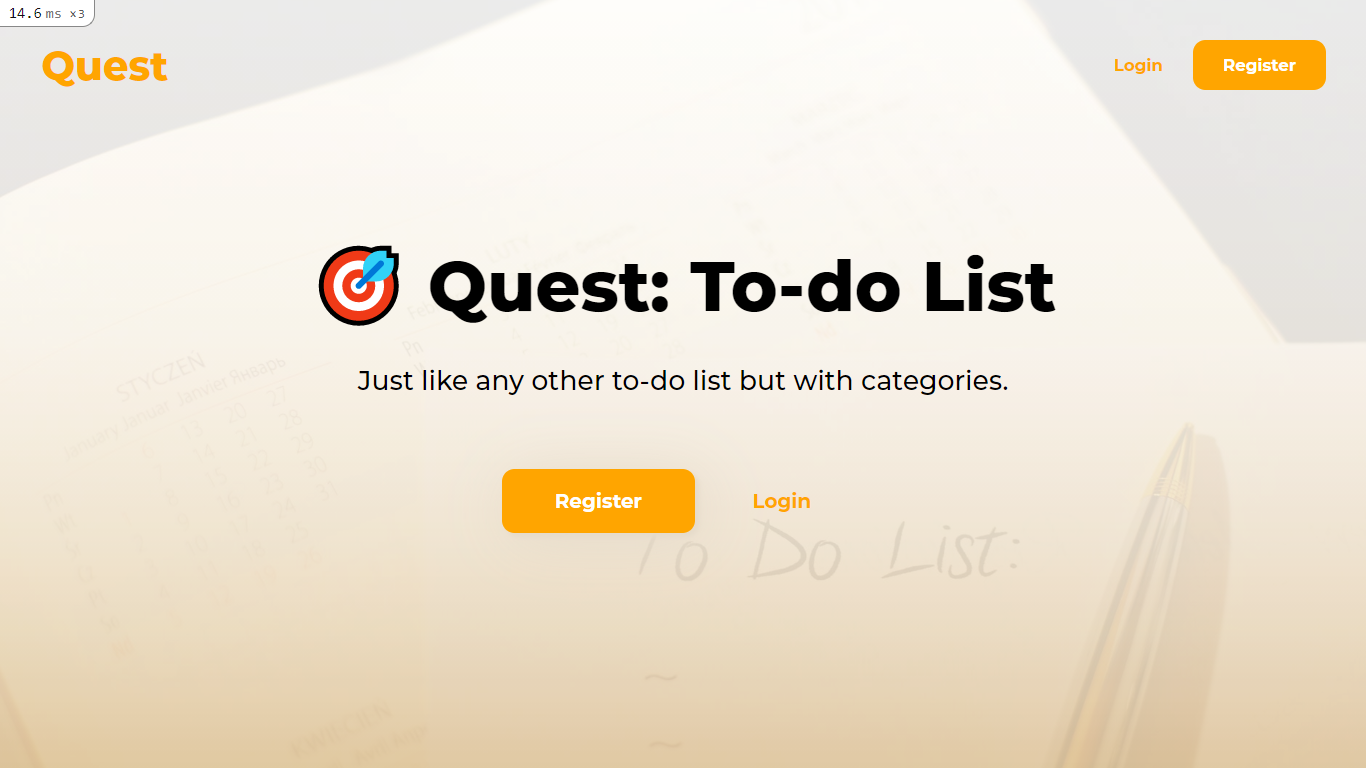
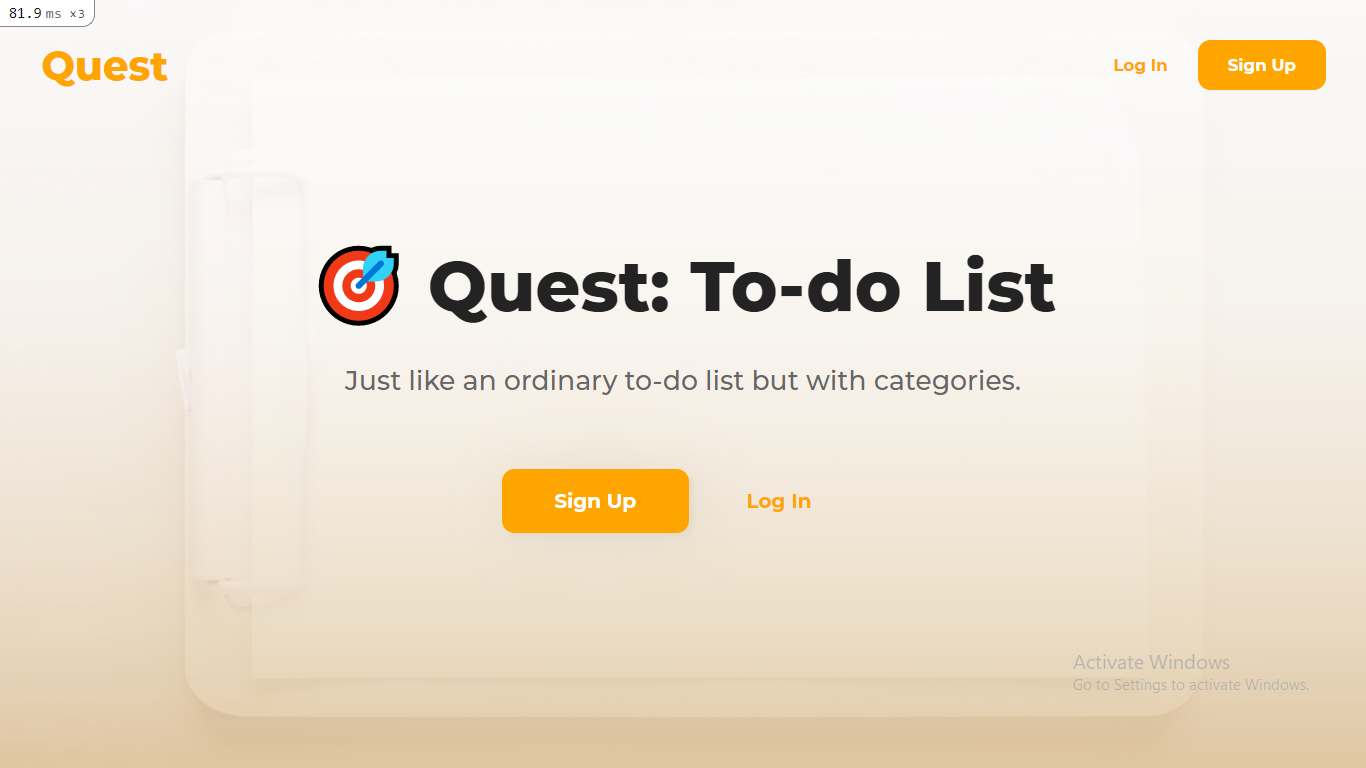
finalized initial design for landing page, sign up page, login page, and forgot password page

diff --git a/app/assets/stylesheets/signup.scss b/app/assets/stylesheets/signup.scss
@@ -1,3 +1,4 @@
+//signup.scss
 .signup {
     position: relative;
     height: calc(100vh - 24px);
@@ -6,6 +7,35 @@
     margin: 0 auto;
     padding: 12px;
     text-align: center;
+}
+
+.signup .background {
+    position: fixed;
+    top: 0;
+    left: 0;
+    height: 100%;
+    width: 100%;
+    background-color: #f8f6f2;
+    background: url(/bg.jpg) center center no-repeat;
+    background-size: cover;
+    z-index: 0;
+}
+
+.signup .overlay {
+    position: fixed;
+    top: 0;
+    left: 0;
+    height: 100%;
+    width: 100%;
+    background-color: #f8f6f2;
+    background-image: linear-gradient( 180deg, #FFFFFF, 72%, #e0c79f);
+    z-index: 1;
+    opacity: 0.9;
+}
+
+.signup .foreground {
+    position: relative;
+    z-index: 10;
 }
 
 .signup .icon {

diff --git a/app/assets/stylesheets/login.scss b/app/assets/stylesheets/login.scss
@@ -1,3 +1,4 @@
+//login.scss
 .login {
     position: relative;
     height: calc(100vh - 24px);
@@ -6,6 +7,35 @@
     margin: 0 auto;
     padding: 12px;
     text-align: center;
+}
+
+.login .background {
+    position: fixed;
+    top: 0;
+    left: 0;
+    height: 100%;
+    width: 100%;
+    background-color: #f8f6f2;
+    background: url(/bg.jpg) center center no-repeat;
+    background-size: cover;
+    z-index: 0;
+}
+
+.login .overlay {
+    position: fixed;
+    top: 0;
+    left: 0;
+    height: 100%;
+    width: 100%;
+    background-color: #f8f6f2;
+    background-image: linear-gradient( 180deg, #FFFFFF, 72%, #e0c79f);
+    z-index: 1;
+    opacity: 0.9;
+}
+
+.login .foreground {
+    position: relative;
+    z-index: 10;
 }
 
 .login .icon {

diff --git a/app/assets/stylesheets/passwords.scss b/app/assets/stylesheets/passwords.scss
@@ -8,6 +8,35 @@
     text-align: center;
 }
 
+.password .background {
+    position: fixed;
+    top: 0;
+    left: 0;
+    height: 100%;
+    width: 100%;
+    background-color: #f8f6f2;
+    background: url(/bg.jpg) center center no-repeat;
+    background-size: cover;
+    z-index: 0;
+}
+
+.password .overlay {
+    position: fixed;
+    top: 0;
+    left: 0;
+    height: 100%;
+    width: 100%;
+    background-color: #f8f6f2;
+    background-image: linear-gradient( 180deg, #FFFFFF, 72%, #e0c79f);
+    z-index: 1;
+    opacity: 0.9;
+}
+
+.password .foreground {
+    position: relative;
+    z-index: 10;
+}
+
 .password .icon {
     margin: 32px auto;
     font-size: 18pt;

diff --git a/app/assets/stylesheets/dev.scss b/app/assets/stylesheets/dev.scss
@@ -1,3 +1,27 @@
+//dev.scss
+.dev-menu {
+    position: fixed;
+    top: 0;
+    left: 0;
+    height: calc(100% - 10px);
+    width: calc(100% - 10px);
+    padding: 5px;
+    background: #000000;
+}
+
+.dev-menu .index-link {
+    display: block;
+    margin: 15px;
+    padding: 18px;
+    font-size: 11pt;
+    font-weight: 800;
+    color: #FFFFFF;
+    text-align: center;
+    text-decoration: none;
+    border: 1px solid #FFFFFF;
+    border-radius: 3px;
+}
+
 .dev-link {
     position: fixed;
     bottom: 24px;

diff --git a/app/assets/stylesheets/index.scss b/app/assets/stylesheets/index.scss
@@ -1,4 +1,4 @@
-//INDEX
+//index.scss
 .index .background {
     position: fixed;
     top: 0;
@@ -103,12 +103,14 @@
     margin: auto;
     font-size: 42pt;
     font-weight: 900;
+    color: #232323;
     line-height: 150%;
     max-width: var(--max-width);
 }
 
 .index #hero .tagline {
     font-weight: bold;
+    color: #666666;
     line-height: 200%;
     font-size: 16pt;
     margin: 12px auto 0;

diff --git a/app/assets/stylesheets/categories.scss b/app/assets/stylesheets/categories.scss
@@ -1,0 +1,1 @@
+//categories.scss

diff --git a/app/assets/stylesheets/tasks.scss b/app/assets/stylesheets/tasks.scss
@@ -1,0 +1,1 @@
+//tasks.scss
